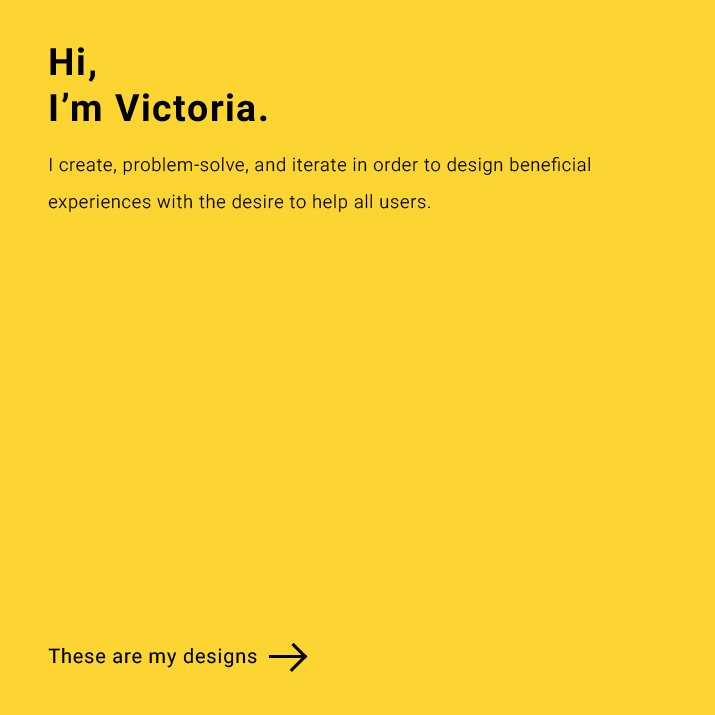
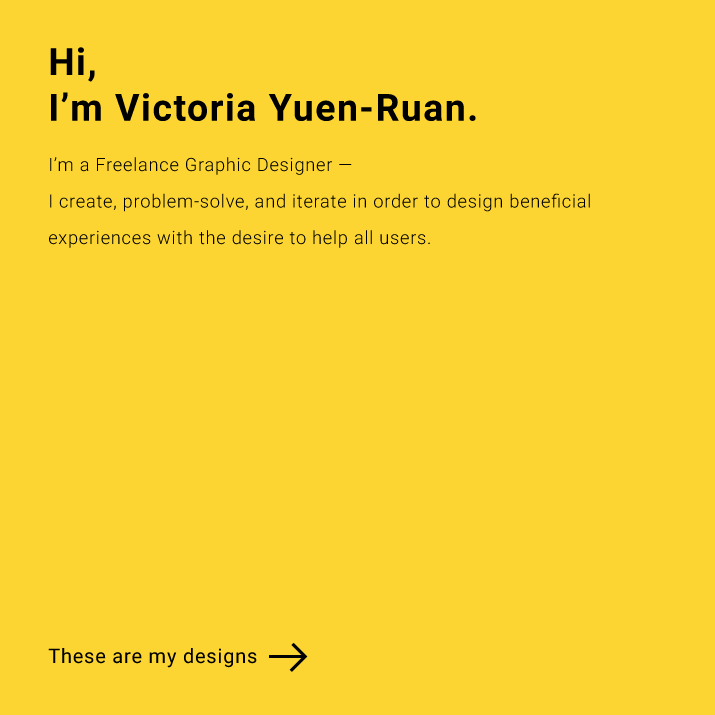
Small Updates to Home, Hashman, About
Updated Hero Blurb.
Flipped image 2 & 3 for hashman portfolio.
Updated stuff on about page.

diff --git a/about.html b/about.html
@@ -54,11 +54,11 @@
 				<div class="margin-4"></div>
 				<div class="row">
 					<div class="col-md-6">
-						<h3> Victoria the designer&mdash;</h3>
+						<h3> Victoria the Designer&mdash;</h3>
 						<div class="margin-4"></div> 
 					</div>
 					<div class="col-md-6">
-						<p>My passions and interests beyond design include but are not limited to: education, self care, illustration, mental health, pizza with red sauce, lifelong learning, thrifting, and social change. Currently I am a freelance graphic designer based in Santa Cruz, CA.</p>
+						<p> I graduated from UC Davis with a B.A. in Design this March 2016. My passions and interests beyond design include but are not limited to: education, self care, illustration, mental health, pizza with red sauce, lifelong learning, thrifting, and social change. Currently I am a freelance graphic designer based in Santa Cruz, CA.</p>
 						<a href="victoria_yuen-ruan_resume.pdf" class="button filled">Download Resumé</a>&nbsp;&nbsp;&nbsp;&nbsp;
 						<a href="mailto:v.yuenruan@gmail.com" class="button filled">Send me a love letter &hearts;</a><hr>
 						<h5 id="email">Let's work together! </h5><p style="color:#ff677a"> Contact me at: v.yuenruan@gmail.com.</p> 

diff --git a/hashman.html b/hashman.html
@@ -52,8 +52,9 @@
 			<h2 class="single-title">Hashman Infused</h2>
 			<div class="owl-carousel owl-slider">
 				<img src="img/hashman_tinctures.jpg" width="1240" height="698" alt="Product photography of Hashman Canna Drops">
-				<img src="img/hashman_emails.jpg" width="1240" height="698" alt="Hashman E-Mails">
 				<img src="img/hashman_poster.jpg" width="1240" height="698" alt="Hashman Poster">
+				<img src="img/hashman_emails.jpg" width="1240" height="698" alt="Hashman E-Mails">
+
 
 				
 			</div>
